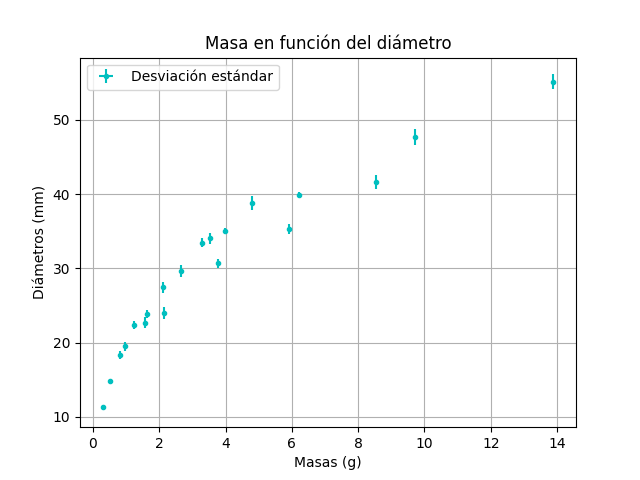
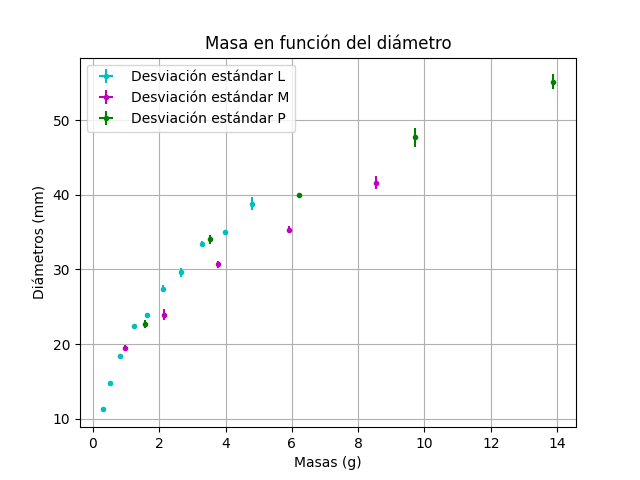
ultima version

diff --git a/main.py b/main.py
@@ -19,8 +19,8 @@ def diametros_(archivo = "Trabajo Práctico 1.xlsx") -> tuple[np.array, np.array
 
 def incertidumbres_diametro(diametros_std):
     diametros_i = []
-    for i in range(len(diametros_std)):
-        diametros_i.append(np.sqrt(0.0025 + (diametros_std[i] / np.sqrt(3))))
+    for i in diametros_std:
+        diametros_i.append(np.sqrt(0.0025 + (i / np.sqrt(3)) ** 2))
     return np.array(diametros_i)
 
 def incertidumbres_masas():
